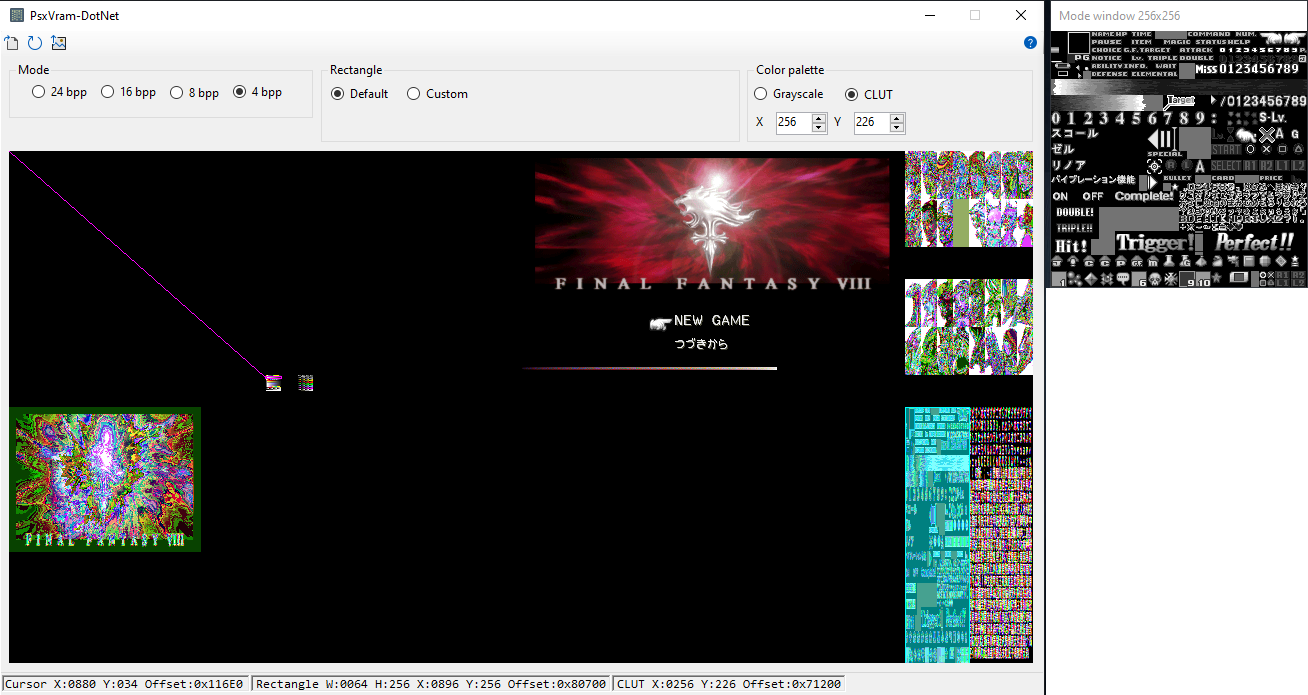
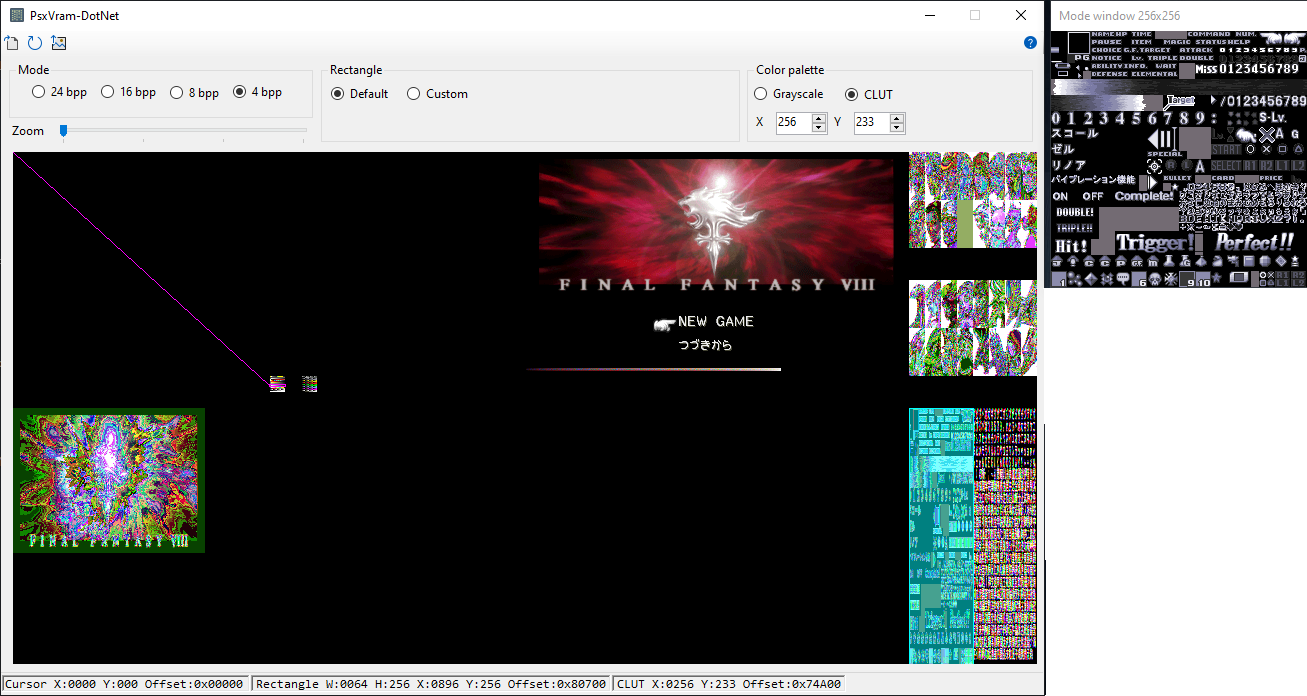
Added zoom

diff --git a/PsxVram-DotNet/Forms/MainForm.cs b/PsxVram-DotNet/Forms/MainForm.cs
@@ -7,7 +7,6 @@ public partial class MainForm : Form
     public const int MaxWidth = 1024;
     public const int MaxHeight = 512;
     private const string DefaultCursorString = "Cursor X:0000 Y:000 Offset:0x00000";
-    private readonly Pen _clutPen = new(Color.Magenta, 1);
     private readonly Size _default4BppRectangleSize = new(0x40, 0x100);
     private readonly Size _default8BppRectangleSize = new(0x80, 0x100); //Default 256x256 rect on 16bpp main form
 
@@ -27,20 +26,22 @@ public partial class MainForm : Form
 
     private readonly FileHelper _fileHelper;
 
-    private readonly Pen _mainBorderPen = new(Color.Cyan, 1);
-    private readonly Brush _mainFillBrush = new SolidBrush(Color.FromArgb(0x80, 0, 0xFF, 0xFF));
-
     private readonly ModeForm _modeForm = new();
     private bool _clutMode;
     private Rectangle _clutRectangle = new(0, 0, 0x10, 1);
 
     private Modes _currentMode = Modes.Mode16Bpp;
+    private Point _currentScrollPoint;
     private Rectangle _mainRectangle;
 
     private Mode16Bpp? _mode16Bpp;
     private Mode24Bpp? _mode24Bpp;
     private Mode4Bpp? _mode4Bpp;
     private Mode8Bpp? _mode8Bpp;
+    private bool _panning;
+    private Point _panningStartPoint;
+
+    private int _zoomFactor = 1;
 
     public MainForm()
     {
@@ -75,6 +76,7 @@ public partial class MainForm : Form
         {
             return;
         }
+
         EnableControls();
         DisplaySourceBytes(newSourceBytes);
         Activate();
@@ -87,12 +89,14 @@ public partial class MainForm : Form
         {
             return;
         }
+
         DisplaySourceBytes(updatedSourceBytes);
     }
 
     private void EnableControls()
     {
         refreshButton.Enabled = true;
+        zoomTrackBar.Enabled = true;
         saveImageButton.Enabled = true;
         groupBoxMode.Enabled = true;
         groupBoxRectangle.Enabled = true;
@@ -116,14 +120,28 @@ public partial class MainForm : Form
         }
     }
 
+    private Rectangle GetZoomedRectangle(Rectangle originalRectangle)
+    {
+        return new Rectangle(originalRectangle.X * _zoomFactor,
+            originalRectangle.Y * _zoomFactor,
+            originalRectangle.Width * _zoomFactor,
+            originalRectangle.Height * _zoomFactor);
+    }
+
     private void PictureBox1_Paint(object sender, PaintEventArgs e)
     {
-        e.Graphics.DrawRectangle(_mainBorderPen, _mainRectangle);
-        e.Graphics.FillRectangle(_mainFillBrush, _mainRectangle);
+        Pen clutPen = new(Color.Magenta, 1);
+        Pen mainBorderPen = new(Color.Cyan, 1);
+        Brush mainFillBrush = new SolidBrush(Color.FromArgb(0x80, 0, 0xFF, 0xFF));
+        var zoomedMainRectangle = GetZoomedRectangle(_mainRectangle);
+        e.Graphics.DrawRectangle(mainBorderPen, zoomedMainRectangle);
+        e.Graphics.FillRectangle(mainFillBrush, zoomedMainRectangle);
         if (_clutMode)
         {
-            e.Graphics.DrawLine(_clutPen, 0, 0, _clutRectangle.X, _clutRectangle.Y);
-            e.Graphics.DrawRectangle(_clutPen, _clutRectangle.X, _clutRectangle.Y - 1, _clutRectangle.Width, 2);
+            var zoomedClutRectangle = GetZoomedRectangle(_clutRectangle);
+            e.Graphics.DrawLine(clutPen, 0, 0, zoomedClutRectangle.X, zoomedClutRectangle.Y);
+            e.Graphics.DrawRectangle(clutPen, zoomedClutRectangle.X, zoomedClutRectangle.Y - 1,
+                zoomedClutRectangle.Width, 2);
         }
     }
 
@@ -201,6 +219,11 @@ public partial class MainForm : Form
         return number - remainder;
     }
 
+    private Point GetZoomedPoint(MouseEventArgs mousePoint)
+    {
+        return new Point(mousePoint.X / _zoomFactor, mousePoint.Y / _zoomFactor);
+    }
+
     private void SetMainRectangle(int x, int y, int width, int height)
     {
         _mainRectangle.Width = width;
@@ -230,13 +253,14 @@ public partial class MainForm : Form
 
     private void mainPictureBox_mouseClick(object sender, MouseEventArgs e)
     {
+        var zoomedPoint = GetZoomedPoint(e);
         switch (e.Button)
         {
             case MouseButtons.Left:
             {
                 //Due to PSX hardware specifications in indexed modes:
-                var newMainX = RoundOff(e.X, 0x40);
-                var newMainY = RoundOff(e.Y, 0x100);
+                var newMainX = RoundOff(zoomedPoint.X, 0x40);
+                var newMainY = RoundOff(zoomedPoint.Y, 0x100);
                 SetMainRectangle(newMainX, newMainY, _mainRectangle.Width, _mainRectangle.Height);
                 break;
             }
@@ -244,8 +268,8 @@ public partial class MainForm : Form
             {
                 if (_clutMode)
                 {
-                    var x = RoundOff(e.X, 0x10); //Due to PSX specification
-                    SetClutRectangle(x, e.Y, _clutRectangle.Width);
+                    var x = RoundOff(zoomedPoint.X, 0x10); //Due to PSX specification
+                    SetClutRectangle(x, zoomedPoint.Y, _clutRectangle.Width);
                 }
 
                 break;
@@ -520,13 +544,45 @@ public partial class MainForm : Form
 
     private void MainPictureBox_MouseMove(object sender, MouseEventArgs e)
     {
-        var offset = (e.Y * MaxWidth + e.X) * 2;
-        statusLabelCursor.Text = $@"Cursor X:{e.X:D4} Y:{e.Y:D3} Offset:0x{offset:X5}";
+        if (_panning)
+        {
+            _currentScrollPoint.X = _currentScrollPoint.X + _panningStartPoint.X - e.X;
+            _currentScrollPoint.Y = _currentScrollPoint.Y + _panningStartPoint.Y - e.Y;
+            MainPanel.AutoScrollPosition = _currentScrollPoint;
+        }
+
+        var zoomedPoint = GetZoomedPoint(e);
+        var offset = (zoomedPoint.Y * MaxWidth + zoomedPoint.X) * 2;
+        statusLabelCursor.Text = $@"Cursor X:{zoomedPoint.X:D4} Y:{zoomedPoint.Y:D3} Offset:0x{offset:X5}";
     }
 
     private void MainPictureBox_MouseLeave(object sender, EventArgs e)
     {
         statusLabelCursor.Text = DefaultCursorString;
+    }
+
+    private void MainPictureBox_MouseDown(object sender, MouseEventArgs e)
+    {
+        if (e.Button == MouseButtons.Middle && _zoomFactor != 1)
+        {
+            _panning = true;
+            Cursor.Current = Cursors.NoMove2D;
+            _panningStartPoint.X = e.X;
+            _panningStartPoint.Y = e.Y;
+        }
+    }
+
+    private void MainPictureBox_MouseUp(object sender, MouseEventArgs e)
+    {
+        _panning = false;
+        Cursor.Current = Cursors.Default;
+    }
+
+    private void zoomTrackBar_ValueChanged(object sender, EventArgs e)
+    {
+        _zoomFactor = zoomTrackBar.Value;
+        MainPictureBox.Width = MaxWidth * _zoomFactor;
+        MainPictureBox.Height = MaxHeight * _zoomFactor;
     }
 
     private enum Modes

diff --git a/PsxVram-DotNet/Forms/MainForm.Designer.cs b/PsxVram-DotNet/Forms/MainForm.Designer.cs
@@ -68,6 +68,9 @@
             this.statusLabelCursor = new System.Windows.Forms.ToolStripStatusLabel();
             this.statusLabelRectangle = new System.Windows.Forms.ToolStripStatusLabel();
             this.statusLabelClut = new System.Windows.Forms.ToolStripStatusLabel();
+            this.MainPanel = new System.Windows.Forms.Panel();
+            this.zoomTrackBar = new System.Windows.Forms.TrackBar();
+            this.label1 = new System.Windows.Forms.Label();
             ((System.ComponentModel.ISupportInitialize)(this.MainPictureBox)).BeginInit();
             this.groupBoxMode.SuspendLayout();
             ((System.ComponentModel.ISupportInitialize)(this.numericUpDownHeight)).BeginInit();
@@ -80,22 +83,27 @@
             this.groupBoxRectangle.SuspendLayout();
             this.toolStripMain.SuspendLayout();
             this.statusStrip.SuspendLayout();
+            this.MainPanel.SuspendLayout();
+            ((System.ComponentModel.ISupportInitialize)(this.zoomTrackBar)).BeginInit();
             this.SuspendLayout();
             // 
             // MainPictureBox
             // 
             this.MainPictureBox.BackColor = System.Drawing.Color.Fuchsia;
-            this.MainPictureBox.Location = new System.Drawing.Point(8, 120);
+            this.MainPictureBox.Location = new System.Drawing.Point(0, 0);
             this.MainPictureBox.Margin = new System.Windows.Forms.Padding(0);
             this.MainPictureBox.Name = "MainPictureBox";
             this.MainPictureBox.Size = new System.Drawing.Size(1024, 512);
+            this.MainPictureBox.SizeMode = System.Windows.Forms.PictureBoxSizeMode.Zoom;
             this.MainPictureBox.TabIndex = 0;
             this.MainPictureBox.TabStop = false;
             this.MainPictureBox.Visible = false;
             this.MainPictureBox.Paint += new System.Windows.Forms.PaintEventHandler(this.PictureBox1_Paint);
             this.MainPictureBox.MouseClick += new System.Windows.Forms.MouseEventHandler(this.mainPictureBox_mouseClick);
+            this.MainPictureBox.MouseDown += new System.Windows.Forms.MouseEventHandler(this.MainPictureBox_MouseDown);
             this.MainPictureBox.MouseLeave += new System.EventHandler(this.MainPictureBox_MouseLeave);
             this.MainPictureBox.MouseMove += new System.Windows.Forms.MouseEventHandler(this.MainPictureBox_MouseMove);
+            this.MainPictureBox.MouseUp += new System.Windows.Forms.MouseEventHandler(this.MainPictureBox_MouseUp);
             // 
             // checkBoxTransparency
             // 
@@ -636,6 +644,38 @@
             this.statusLabelClut.Text = "CLUT X:0000 Y:000 Offset:0x00000";
             this.statusLabelClut.Visible = false;
             // 
+            // MainPanel
+            // 
+            this.MainPanel.AutoScroll = true;
+            this.MainPanel.Controls.Add(this.MainPictureBox);
+            this.MainPanel.Location = new System.Drawing.Point(12, 121);
+            this.MainPanel.Name = "MainPanel";
+            this.MainPanel.Size = new System.Drawing.Size(1024, 512);
+            this.MainPanel.TabIndex = 15;
+            // 
+            // zoomTrackBar
+            // 
+            this.zoomTrackBar.AutoSize = false;
+            this.zoomTrackBar.Enabled = false;
+            this.zoomTrackBar.LargeChange = 1;
+            this.zoomTrackBar.Location = new System.Drawing.Point(53, 92);
+            this.zoomTrackBar.Maximum = 4;
+            this.zoomTrackBar.Minimum = 1;
+            this.zoomTrackBar.Name = "zoomTrackBar";
+            this.zoomTrackBar.Size = new System.Drawing.Size(259, 20);
+            this.zoomTrackBar.TabIndex = 16;
+            this.zoomTrackBar.Value = 1;
+            this.zoomTrackBar.ValueChanged += new System.EventHandler(this.zoomTrackBar_ValueChanged);
+            // 
+            // label1
+            // 
+            this.label1.AutoSize = true;
+            this.label1.Location = new System.Drawing.Point(8, 92);
+            this.label1.Name = "label1";
+            this.label1.Size = new System.Drawing.Size(39, 15);
+            this.label1.TabIndex = 17;
+            this.label1.Text = "Zoom";
+            // 
             // MainForm
             // 
             this.AutoScaleDimensions = new System.Drawing.SizeF(7F, 15F);
@@ -643,12 +683,14 @@
             this.AutoSize = true;
             this.BackColor = System.Drawing.SystemColors.Control;
             this.ClientSize = new System.Drawing.Size(1043, 664);
+            this.Controls.Add(this.label1);
+            this.Controls.Add(this.zoomTrackBar);
+            this.Controls.Add(this.MainPanel);
             this.Controls.Add(this.statusStrip);
             this.Controls.Add(this.toolStripMain);
             this.Controls.Add(this.groupBoxRectangle);
             this.Controls.Add(this.groupBoxPalette);
             this.Controls.Add(this.groupBoxMode);
-            this.Controls.Add(this.MainPictureBox);
             this.FormBorderStyle = System.Windows.Forms.FormBorderStyle.FixedSingle;
             this.Icon = ((System.Drawing.Icon)(resources.GetObject("$this.Icon")));
             this.KeyPreview = true;
@@ -676,6 +718,8 @@
             this.toolStripMain.PerformLayout();
             this.statusStrip.ResumeLayout(false);
             this.statusStrip.PerformLayout();
+            this.MainPanel.ResumeLayout(false);
+            ((System.ComponentModel.ISupportInitialize)(this.zoomTrackBar)).EndInit();
             this.ResumeLayout(false);
             this.PerformLayout();
 
@@ -722,6 +766,9 @@
         private ToolStripStatusLabel statusLabelClut;
         private ToolStripStatusLabel statusLabelCursor;
         private ToolStripStatusLabel statusLabelRectangle;
+        private Panel MainPanel;
+        private TrackBar zoomTrackBar;
+        private Label label1;
     }
 }
 

diff --git a/PsxVram-DotNet/Forms/AboutBox.Designer.cs b/PsxVram-DotNet/Forms/AboutBox.Designer.cs
@@ -57,7 +57,7 @@
             this.label1.Name = "label1";
             this.label1.Size = new System.Drawing.Size(194, 25);
             this.label1.TabIndex = 14;
-            this.label1.Text = "PsxVram-DotNet v.0.2";
+            this.label1.Text = "PsxVram-DotNet v.0.3";
             // 
             // linkLabel1
             // 
